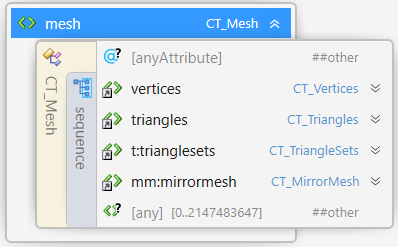
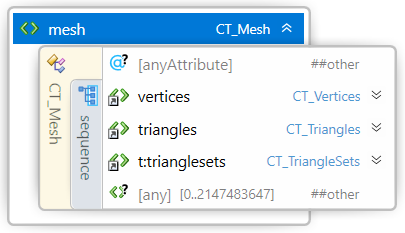
Remove mirrormesh
Obsoleted

diff --git a/3MF Core Specification.md b/3MF Core Specification.md
@@ -12,9 +12,9 @@
 
 
 
-| **Version** | 1.3.0 |
+| **Version** | 1.3.1 |
 | --- | --- |
-| **Status** | Published |
+| **Status** | Draft |
 
 ## Disclaimer
 
@@ -78,7 +78,7 @@ Part II, "Appendices," contains additional technical details and schemas too ext
 
 The information contained in this specification is subject to change. Every effort has been made to ensure its accuracy at the time of publication.
 
-This core specification is extended with additions. As an example, the prefix "t" maps to the xml-namespace "http://schemas.microsoft.com/3dmanufacturing/trianglesets/2021/07" and the prefix "mm" maps to the xml namespace "http://schemas.microsoft.com/3dmanufacturing/mirroring/2021/07", both defined in version 1.3. See [Appendix C.3 Namespaces](#c3-namespaces)
+This core specification is extended with additions. As an example, the prefix "t" maps to the xml-namespace "http://schemas.microsoft.com/3dmanufacturing/trianglesets/2021/07", defined in version 1.3. See [Appendix C.3 Namespaces](#c3-namespaces)
 
 ## Document Conventions
 
@@ -680,42 +680,6 @@ A \<refrange> element in a triangle set refers to the zero-based indexed \<trian
 The \<refrange> element inserts into the parent triangle set all triangles from the _triangles node_ with index between inclusively startindex and the endindex.
 
 
-### 4.1.6. Mesh Mirror Transforms
-
-A producer MUST NOT use transforms with negative determinants to account for mirroring, as this would invert the normal directions of the triangle. In order to store a mesh in a mirrored form, the producer MUST store a transformed copy of the original mesh in its mirrored form, which means with absolute transformed vertex coordinates as well as a corrected positive triangle orientation.
-
-However, if a producer wants to reference the original mesh from a transformed copy, the producer MAY use the mirroring namespace (*http://schemas.microsoft.com/3dmanufacturing/mirroring/2021/07*) to store a reference to the original mesh id as well as the mirror plane that was used:
-
-Element **\<mm:mirrormesh>**
-
-![element mirrormesh](images/element_mirrormesh.png)
-
-##### Attributes
-| Name | Type | Use | Default | Annotation |
-| --- | --- | --- | --- | --- |
-| originalmesh | **ST\_ResourceID** | required | | Resource ID of the original mesh object |
-| nx | **ST\_Number** | required | | X Coordinate of Mirror plane normal equation |
-| ny | **ST\_Number** | required | | Y Coordinate of Mirror plane normal equation |
-| nz | **ST\_Number** | required | | Z Coordinate of Mirror plane normal equation |
-| d | **ST\_Number** | required | | Distance value of Mirror plane normal equation |
-
-The \<mirror> element is optional. The *originalmesh* attribute MUST refer to a previous mesh object in the current 3MF model. The originalmesh-attribute must not refer to a mesh that contains a \<mirrormesh> element.
-
-The mirror transform shall be defined through the given *mirror plane* that is defined by the equation 
-
-*nx* * *x* + *ny* * *y* + *nz* * *z* + *d* = *0*
-
-in the local mesh coordinate system. If a mirror mesh transformation is given, the following rules MUST apply for the vertices and faces:
-- The mesh's vertex count MUST be equal to the original mesh's vertex count.
-- For each vertex in the mesh, there MUST be a corresponding vertex of the original mesh with the identical index in the vertex list. The corresponding vertex coordinate MUST be defined by mirroring on the mirror plane in the local coordinate system.
-- The mesh's triangle count MUST be equal to the original mesh's.
-- For each triangle in the mesh, there MUST be a corresponding triangle of the transformed original mesh with identical index in the triangle list. The corresponding triangle MUST have identical properties, except vertex v1 and v3 MUST be exchanged (as well as p1 and p3).
-- The trianglesets of the mesh MUST be identical to the triangle sets of the original mesh.
-
-If any of the given requirements is invalid, the actual mesh coordinates MUST take precedence and a producer MUST ignore the mirror transform.
-
-If the mirror namespace is a required extension, the producer MAY choose to not store duplicate information. If the producer chooses to do so, it MUST specify an empty triangles element, an empty vertices element and an empty trianglesets element for this mesh. In this case, any consumer MUST implicitely reconstruct the mesh data from the original mesh via the given rules. For backwards compatibility producers SHOULD NOT mark the mirror namespace as a required extension.
-
 
 ## 4.2. Components
 
@@ -1266,63 +1230,6 @@ A consumer that is authorized to un-protect content by reversing the above steps
 </xs:schema>
 ```
 
-### B.1.3 Mirroring extension schema
-
-```xml
-<?xml version="1.0" encoding="UTF-8"?>
-<xs:schema xmlns="http://schemas.microsoft.com/3dmanufacturing/mirroring/2021/07"
-  xmlns:xs="http://www.w3.org/2001/XMLSchema" xmlns:xml="http://www.w3.org/XML/1998/namespace"
-  targetNamespace="http://schemas.microsoft.com/3dmanufacturing/mirroring/2021/07"
-  elementFormDefault="unqualified" attributeFormDefault="unqualified" blockDefault="#all">
-  <xs:import namespace="http://www.w3.org/XML/1998/namespace" schemaLocation="http://www.w3.org/2001/xml.xsd"/>
-  <xs:annotation>
-    <xs:documentation>
-      <![CDATA[
-    Schema notes:
- 
-    Items within this schema follow a simple naming convention of appending a prefix indicating the type of element for references:
- 
-    Unprefixed: Element names
-    CT_: Complex types
-    ST_: Simple types
-   
-    ]]>
-    </xs:documentation>
-  </xs:annotation>
-  <!-- Complex Types -->
-<xs:complexType name="CT_Mesh">
-    <xs:sequence>
-      <xs:element ref="mirromesh"/>
-      <xs:any namespace="##other" processContents="lax" minOccurs="0" maxOccurs="1"/>
-    </xs:sequence>
-    <xs:anyAttribute namespace="##other" processContents="lax"/>
-  </xs:complexType>
-  <xs:complexType name="CT_MirrorMesh">
-    <xs:attribute name="originalmesh" type="ST_ResourceID"/>
-    <xs:attribute name="nx" type="ST_Number"/>
-    <xs:attribute name="ny" type="ST_Number"/>
-    <xs:attribute name="nz" type="ST_Number"/>
-    <xs:attribute name="d" type="ST_Number"/>
-    <xs:anyAttribute namespace="##other" processContents="lax"/>
-  </xs:complexType>
-  <!-- Simple Types -->
-  <xs:simpleType name="ST_ResourceID">
-    <xs:restriction base="xs:positiveInteger">
-      <xs:maxExclusive value="2147483648"/>
-    </xs:restriction>
-  </xs:simpleType>
-  <xs:simpleType name="ST_Number">
-    <xs:restriction base="xs:double">
-      <xs:whiteSpace value="collapse"/>
-      <xs:pattern value="((\-|\+)?(([0-9]+(\.[0-9]+)?)|(\.[0-9]+))((e|E)(\-|\+)?[0-9]+)?)"/>
-    </xs:restriction>
-  </xs:simpleType>
-  <!-- Elements -->
-  <xs:element name="mesh" type="CT_Mesh"/>
-  <xs:element name="mirromesh" type="CT_MirrorMesh"/>
-</xs:schema>
-```
-
 ## Appendix B.2. 3MF Metadata Example
 
 ```xml
@@ -1411,8 +1318,6 @@ MustPreserve http://schemas.openxmlformats.org/package/2006/relationships/mustpr
 3D Model http://schemas.microsoft.com/3dmanufacturing/core/2015/02
 
 Triangle Sets http://schemas.microsoft.com/3dmanufacturing/trianglesets/2021/07
-
-Mirroring http://schemas.microsoft.com/3dmanufacturing/mirroring/2021/07
 
 # References
 
